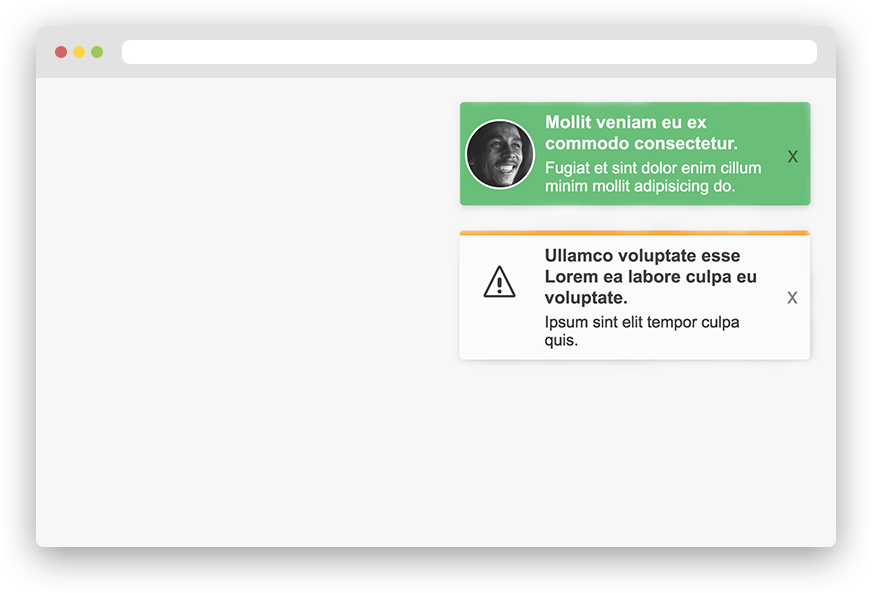
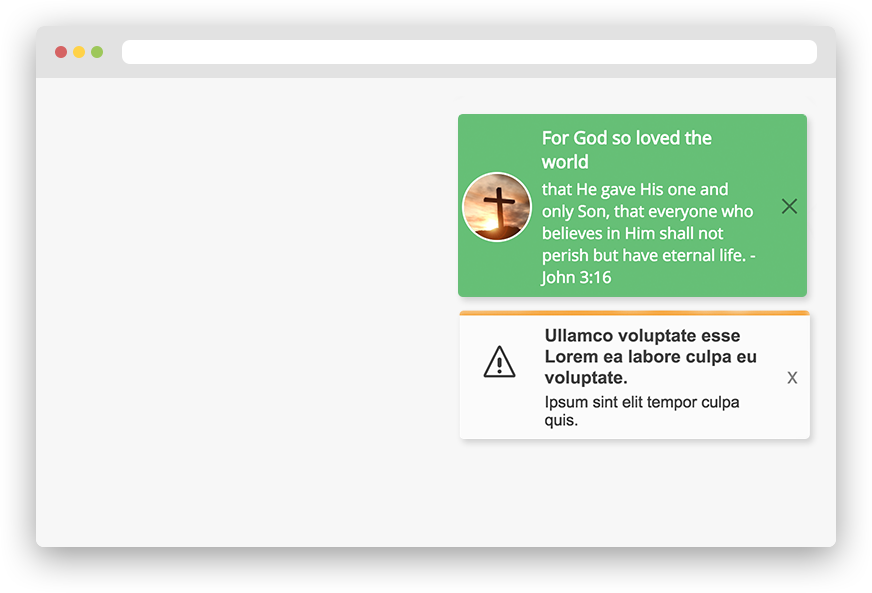
update demo site

Changed region(s): [[0.5264, 0.1518, 0.9289, 0.7589], [0.5573, 0.5767, 0.5883, 0.6374]]

diff --git a/development/Menu.js b/development/Menu.js
@@ -2,6 +2,7 @@ import React from 'react';
 import {toastr} from './../src/';
 import loremIpsum from 'lorem-ipsum';
 import Avatar from './Avatar';
+import messageText from './messageText';
 
 export default class Menu extends React.Component {
   constructor(props) {
@@ -38,29 +39,50 @@ export default class Menu extends React.Component {
   render() {
     return (
         <ul className="menu">
-          <li className="success" onClick={() => this.handleClick('success')}>
+          <li className="success" onClick={() => {
+            toastr.success(
+              'In the beginning was the word',
+              'and the Word was with God, and the Word was God...',
+              {
+                timeOut: 10000,
+                progressBar: true
+              }
+            );
+          }}>
             <span className="icon-check"/>
           </li>
           <li className="warning" onClick={() => this.handleClick('warning')}>
             <span className="icon-exclamation-triangle"/>
           </li>
-          <li className="info" onClick={() => this.handleClick('info')}>
+          <li className="info" onClick={() => {
+            toastr.info('Jesus answered, “I am the way and the truth and the life. No one comes to the Father except through Me.', {
+              progressBar: true,
+              timeOut: 10000
+            });
+          }}>
             <span className="icon-info-circle"/>
           </li>
           <li className="error" onClick={() => this.handleClick('error')}>
             <span  className="icon-bug"/>
           </li>
-          <li className="success" onClick={() => this.handleClick('success', true)}>
+          <li className="success" onClick={() => {
+            toastr.success(
+              'For God so loved the world',
+              'that He gave His one and only Son, that everyone who believes in Him shall not perish but have eternal life. - John 3:16',
+              {
+                icon: (<Avatar />),
+                timeOut: 0
+              });
+          }}>
             <span className="icon-check"/>
             <span className="icon-person"/>
-          </li>
-          <li className="info" onClick={() => toastr.info('Lets prevent duplication', 'You can prevent duplications')}>
-            <span className="icon-double-diamonds"/>
           </li>
           <li className="light" onClick={() => this.handleClick('light')}>
             <span className="icon-light"/>
           </li>
-          <li className="message" onClick={() => this.handleClick('message')}>
+          <li className="message" onClick={() => {
+            toastr.message('What can we do without love', messageText);
+          }}>
             <span className="icon-email-envelope"/>
           </li>
           <li className="message" onClick={() => toastr.confirm('The confirm message')}>

diff --git a/development/messageText.js b/development/messageText.js
@@ -1,0 +1,15 @@
+const text = `
+  Today you got another gift, a gift called present, today you have another
+  opportunity to tell and show those around you how much you love and care about then,
+  but true love is measure with actions not only with words.
+  We need to give more love, because the way you live your life is not going
+  to affect only you but everyone arounds, we need to love without fear love without
+  reason because if you love only those who love you what difference are you making. Love more, fear less.
+
+  “And if I have the gift of prophecy, and know all mysteries and all
+  knowledge; and if I have all faith, so as to remove mountains, but have not love, I am nothing.”
+
+  — Diego Oliveira
+`;
+
+export default text;

diff --git a/build/webpack/base.js b/build/webpack/base.js
@@ -60,6 +60,7 @@ module.exports = {
         + '   <meta charset="iso-8859-1">'
         + '   <title>React Redux Toastr</title>'
         + '   <meta name="viewport" content="width=device-width, initial-scale=1">'
+        + '   <link href="https://fonts.googleapis.com/css?family=Open+Sans" rel="stylesheet">'
         + '   <link href="https://file.myfontastic.com/DK4y3Mj8zxvX2ADWpcWGnM/icons.css" rel="stylesheet">'
         + ' </head>'
         + ' <body>'

diff --git a/development/Avatar.js b/development/Avatar.js
@@ -9,14 +9,10 @@ const styles = {
   margin: 'auto'
 };
 
-const imgStyle = {
-  maxWidth: '105%'
-};
-
 export default () => {
   return (
     <div className="toastr-avatar" style={styles}>
-      <img src="./assets/bob.jpg" style={imgStyle}/>
+      <img src="./assets/jesus.jpg" style={{maxWidth: '105%'}}/>
     </div>
   );
 };

diff --git a/development/index.scss b/development/index.scss
@@ -3,6 +3,7 @@
   padding: 0;
   text-decoration: none;
   list-style: none;
+  font-family: Open Sans;
 
   box-sizing: border-box;
 
